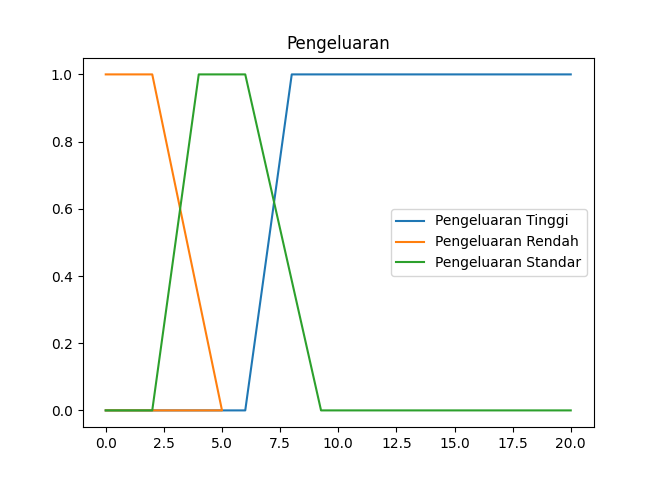
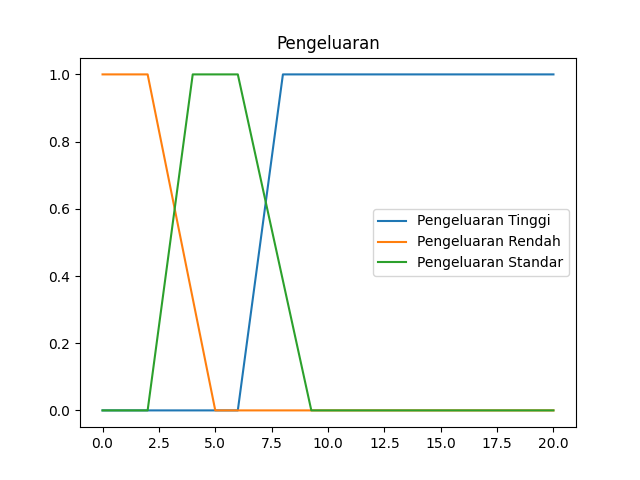
pinis

diff --git a/FuzzyLogic.py b/FuzzyLogic.py
@@ -144,7 +144,7 @@ def printGraph():
     y3 = [0,0, 1,1]
     x4 = [0, 6, 8, 20]
     y4 = [0, 0, 1, 1]
-    x5 = [0, 2, 5, 0]
+    x5 = [0, 2, 5, 20]
     y5 = [1, 1, 0, 0]
     x6 = [0, 2, 4, 6, 9.26, 20]
     y6 = [0, 0, 1, 1, 0, 0]
@@ -155,7 +155,10 @@ def printGraph():
     plt.plot(x4, y4, label='Pengeluaran Tinggi')
     plt.plot(x5, y5, label='Pengeluaran Rendah')
     plt.plot(x6, y6, label='Pengeluaran Standar')
-    plt.title('Pengeluaran')
+    #plt.axvline(x=23.48, color='red', label='Rejected')
+    #plt.axvline(x=53.7, color='yellow', label='Considered')
+    #plt.axvline(x=100, color='green', label='Accepted')
+    plt.title('Penghasilan dan Pengeluaran')
     plt.legend()
     plt.show()
 def createExcel(data):
@@ -163,5 +166,5 @@ def createExcel(data):
     writer = pd.ExcelWriter('Bantuan.xls')
     df.to_excel(writer, sheet_name = 'Sheet1')
     writer.save()
-    
-main()
+printGraph()
+#main()
